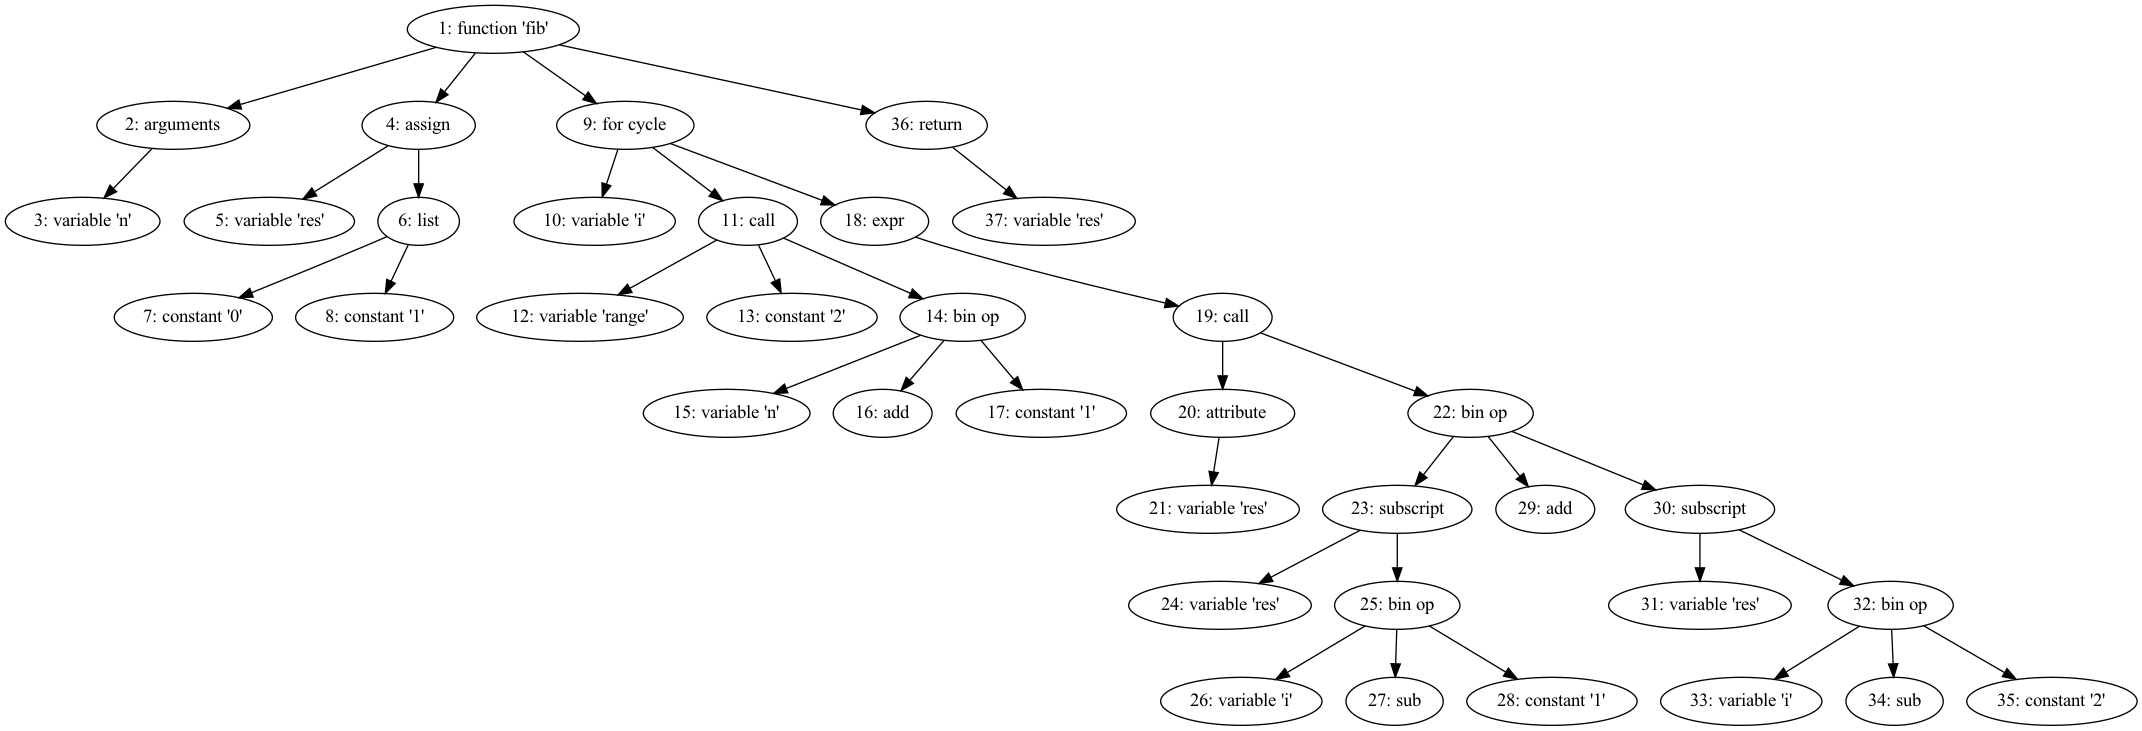
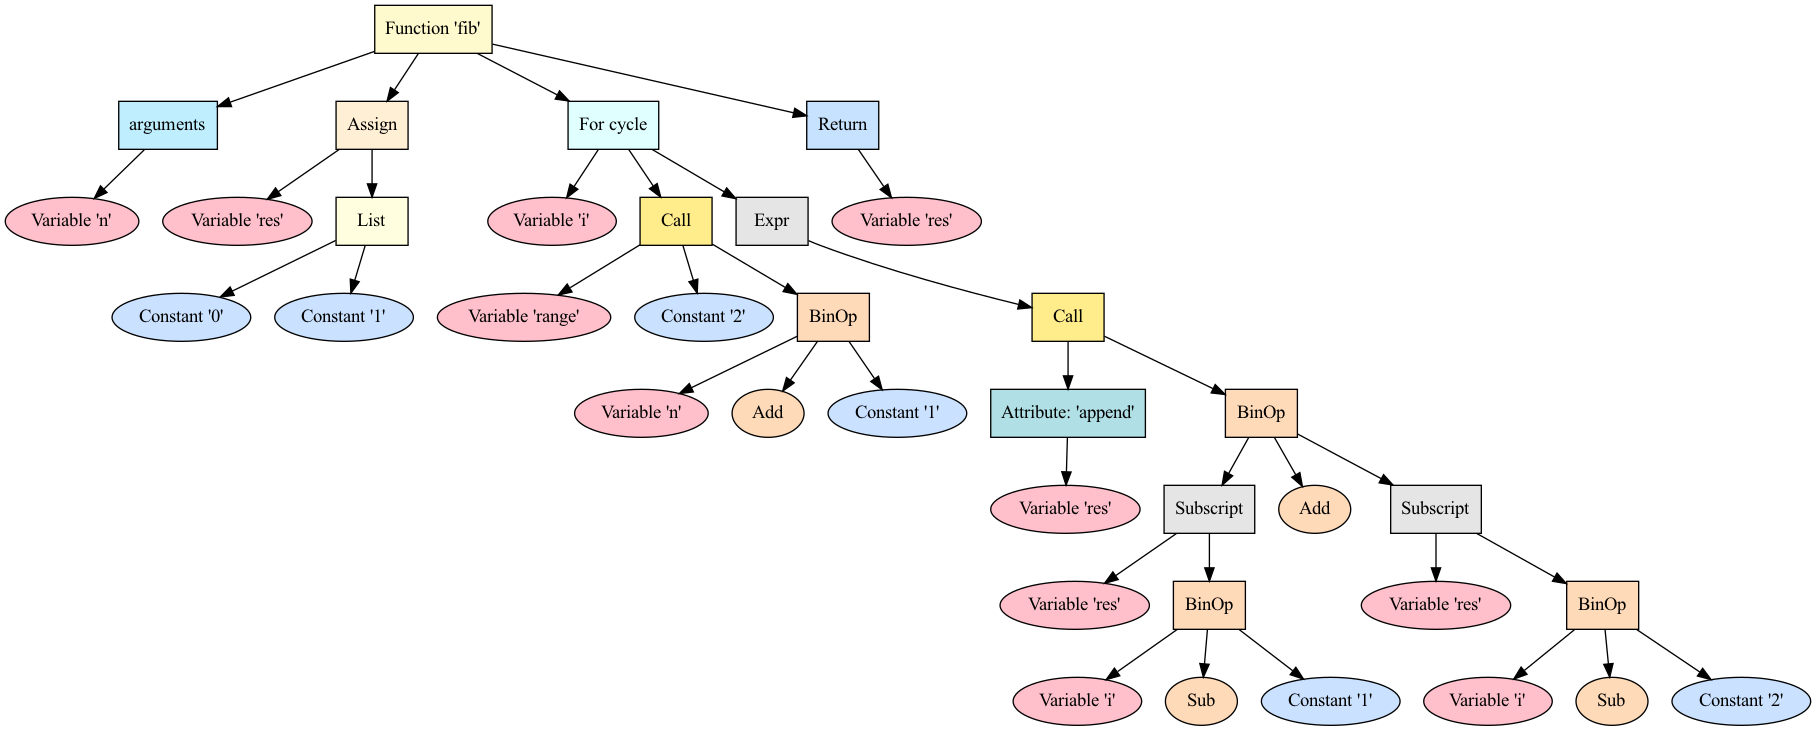
pretty graph for hard

diff --git a/hw1/main.py b/hw1/main.py
@@ -5,107 +5,110 @@ import inspect
 
 
 def get_num():
-	x = 0
-	while True:
-		x += 1
-		yield x
+    x = 0
+    while True:
+        x += 1
+        yield x
 
 
 gen_num = get_num()
 g = nx.Graph()
-node_names = {}
+node_attr = {}
 
 
-def visit_node(gv, node, name):
-	counter = next(gen_num)
-	node_names[counter] = str(counter) + ': ' + name
-	g.add_node(counter)
-	lst = gv.generic_visit(node)
-	g.add_edges_from(map(lambda x: (counter, x), lst))
-	return counter
+def get_name(node):
+    return node.__class__.__name__
+
+
+def visit_node(gv, node, name, color='white', shape='ellipse'):
+    counter = next(gen_num)
+    new_name = str(counter) + ': ' + name
+    node_attr[new_name] = {'style': 'filled', 'fillcolor': color, 'label': name, 'shape': shape}
+    g.add_node(new_name)
+    lst = gv.generic_visit(node)
+    g.add_edges_from(map(lambda x: (new_name, x), lst))
+    return new_name
 
 
 class GraphVisitor(ast.NodeVisitor):
 
-	def visit_FunctionDef(self, node):
-		return visit_node(self, node, "function '{}'".format(node.name))
+    def visit_FunctionDef(self, node):
+        return visit_node(self, node, "Function '{}'".format(node.name), color='lemonchiffon', shape='rectangle')
 
-	def visit_arguments(self, node):
-		return visit_node(self, node, 'arguments')
+    def visit_arguments(self, node):
+        return visit_node(self, node, get_name(node), color='lightblue1', shape='rectangle')
 
-	def visit_For(self, node):
-		return visit_node(self, node, 'for cycle')
+    def visit_For(self, node):
+        return visit_node(self, node, get_name(node) + ' cycle', color='lightcyan1', shape='rectangle')
 
-	def visit_Return(self, node):
-		return visit_node(self, node, 'return')
+    def visit_Return(self, node):
+        return visit_node(self, node, get_name(node), color='slategray1', shape='rectangle')
 
-	def visit_Name(self, node):
-		return visit_node(self, node, "variable '{}'".format(node.id))
+    def visit_Name(self, node):
+        return visit_node(self, node, "Variable '{}'".format(node.id), color='pink')
 
-	def visit_BinOp(self, node: ast.BinOp):
-		return visit_node(self, node, 'bin op')
+    def visit_BinOp(self, node: ast.BinOp):
+        return visit_node(self, node, get_name(node), color='peachpuff1', shape='rectangle')
 
-	def visit_Add(self, node):
-		return visit_node(self, node, 'add')
+    def visit_Add(self, node):
+        return visit_node(self, node, get_name(node), color='peachpuff1')
 
-	def visit_Assign(self, node):
-		return visit_node(self, node, 'assign')
+    def visit_Assign(self, node):
+        return visit_node(self, node, get_name(node), color='papayawhip', shape='rectangle')
 
-	def visit_arg(self, node):
-		return visit_node(self, node, "variable '{}'".format(node.arg))
+    def visit_arg(self, node):
+        return visit_node(self, node, "Variable '{}'".format(node.arg), color='pink')
 
-	def visit_List(self, node):
-		return visit_node(self, node, 'list')
+    def visit_List(self, node):
+        return visit_node(self, node, get_name(node), color='lightyellow1', shape='rectangle')
 
-	def visit_Constant(self, node):
-		return visit_node(self, node, "constant '{}'".format(node.value))
+    def visit_Constant(self, node):
+        return visit_node(self, node, "{} '{}'".format(get_name(node), node.value), color='lightsteelblue1')
 
-	def visit_Expr(self, node: ast.Expr):
-		return visit_node(self, node, 'expr')
+    def visit_Expr(self, node: ast.Expr):
+        return visit_node(self, node, get_name(node), color='grey90', shape='rectangle')
 
-	def visit_Call(self, node: ast.Call):
-		return visit_node(self, node, 'call')
+    def visit_Call(self, node: ast.Call):
+        return visit_node(self, node, get_name(node), color='lightgoldenrod1', shape='rectangle')
 
-	def visit_Sub(self, node: ast.Sub):
-		return visit_node(self, node, 'sub')
+    def visit_Sub(self, node: ast.Sub):
+        return visit_node(self, node, get_name(node), color='peachpuff1')
 
-	def visit_Attribute(self, node: ast.Attribute):
-		return visit_node(self, node, 'attribute')
+    def visit_Attribute(self, node: ast.Attribute):
+        return visit_node(self, node, "{}: '{}'".format(get_name(node), node.attr), color='powderblue', shape='rectangle')
 
-	def visit_Subscript(self, node: ast.Subscript):
-		return visit_node(self, node, 'subscript')
+    def visit_Subscript(self, node: ast.Subscript):
+        return visit_node(self, node, get_name(node), color='grey90', shape='rectangle')
 
-	def generic_visit(self, node):
-		lst = []
-		for field, value in ast.iter_fields(node):
-			if isinstance(value, list):
-				for item in value:
-					if isinstance(item, ast.AST):
-						c = self.visit(item)
-						if not isinstance(c, list):
-							lst.append(c)
-			elif isinstance(value, ast.AST):
-				c = self.visit(value)
-				if not isinstance(c, list):
-					lst.append(c)
-		return lst
+    def generic_visit(self, node):
+        lst = []
+        for field, value in ast.iter_fields(node):
+            if isinstance(value, list):
+                for item in value:
+                    if isinstance(item, ast.AST):
+                        c = self.visit(item)
+                        if not isinstance(c, list):
+                            lst.append(c)
+            elif isinstance(value, ast.AST):
+                c = self.visit(value)
+                if not isinstance(c, list):
+                    lst.append(c)
+        return lst
 
 
 def main():
-	source = inspect.getsource(fib)
-	tree = ast.parse(source)
-	visitor = GraphVisitor()
-	visitor.visit(tree)
-	g1 = nx.relabel_nodes(g, node_names)
-	g2 = nx.dfs_tree(g1)
-	g3 = nx.drawing.nx_agraph.to_agraph(g2)
-	pos = g3.layout('dot')
-	g3.draw('artifacts/AST.png', format='png')
-	#nx.draw(g2, with_labels=True)
-	#plt.savefig("artifacts/AST.png")
-	print(ast.dump(tree, indent=4))
-	print(ast.dump(tree))
+    source = inspect.getsource(fib)
+    tree = ast.parse(source)
+    visitor = GraphVisitor()
+    visitor.visit(tree)
+    g2 = nx.dfs_tree(g)
+    g3 = nx.drawing.nx_agraph.to_agraph(g2)
+    for node in g3.nodes():
+        for key, value in node_attr[node].items():
+            node.attr[key] = value
+    pos = g3.layout('dot')
+    g3.draw('artifacts/AST.png', format='png')
 
 
 if __name__ == "__main__":
-	main()
+    main()
